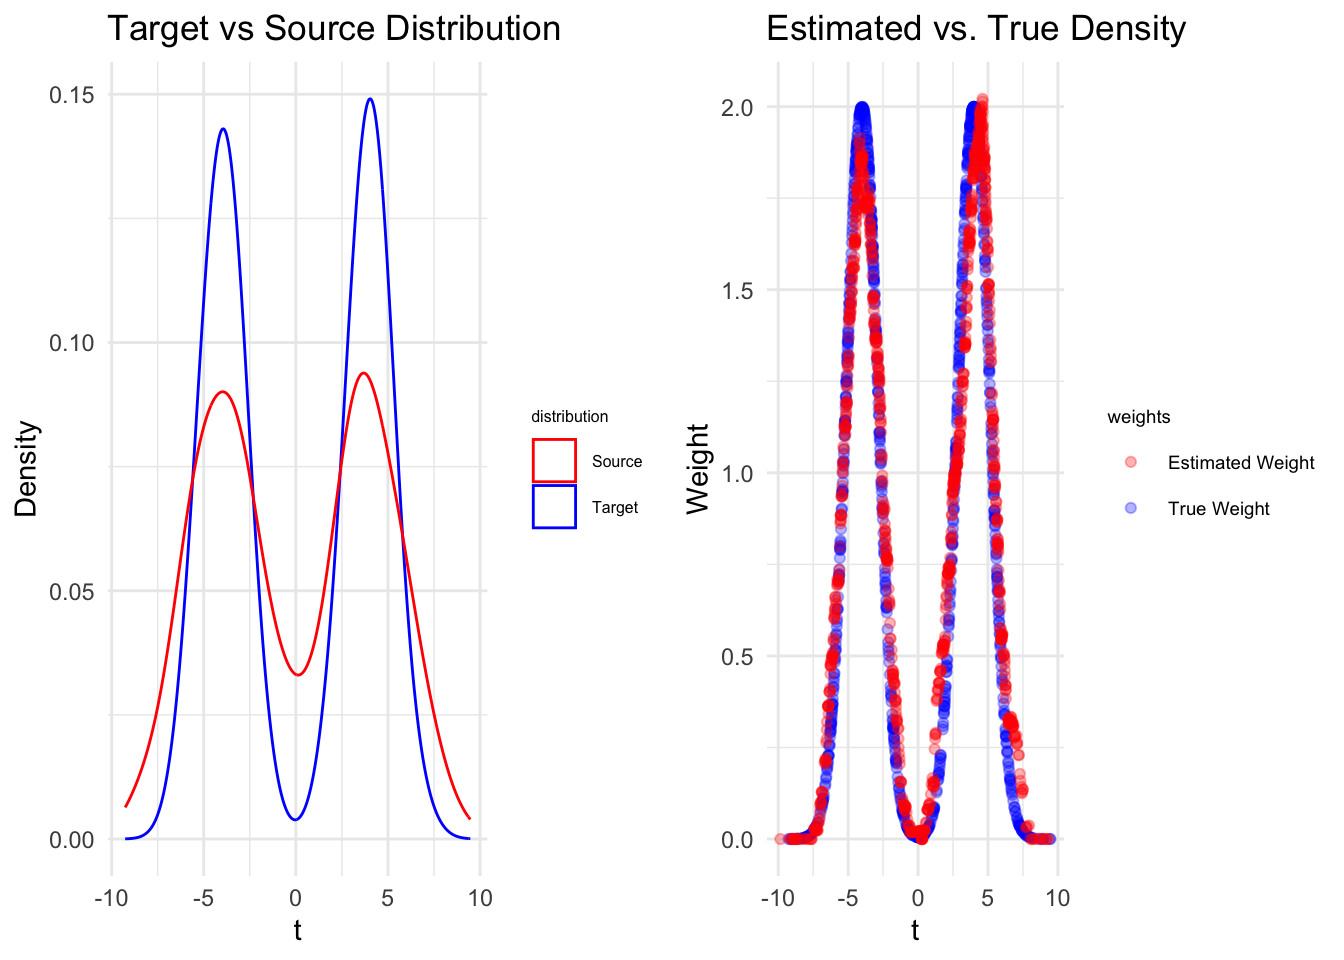
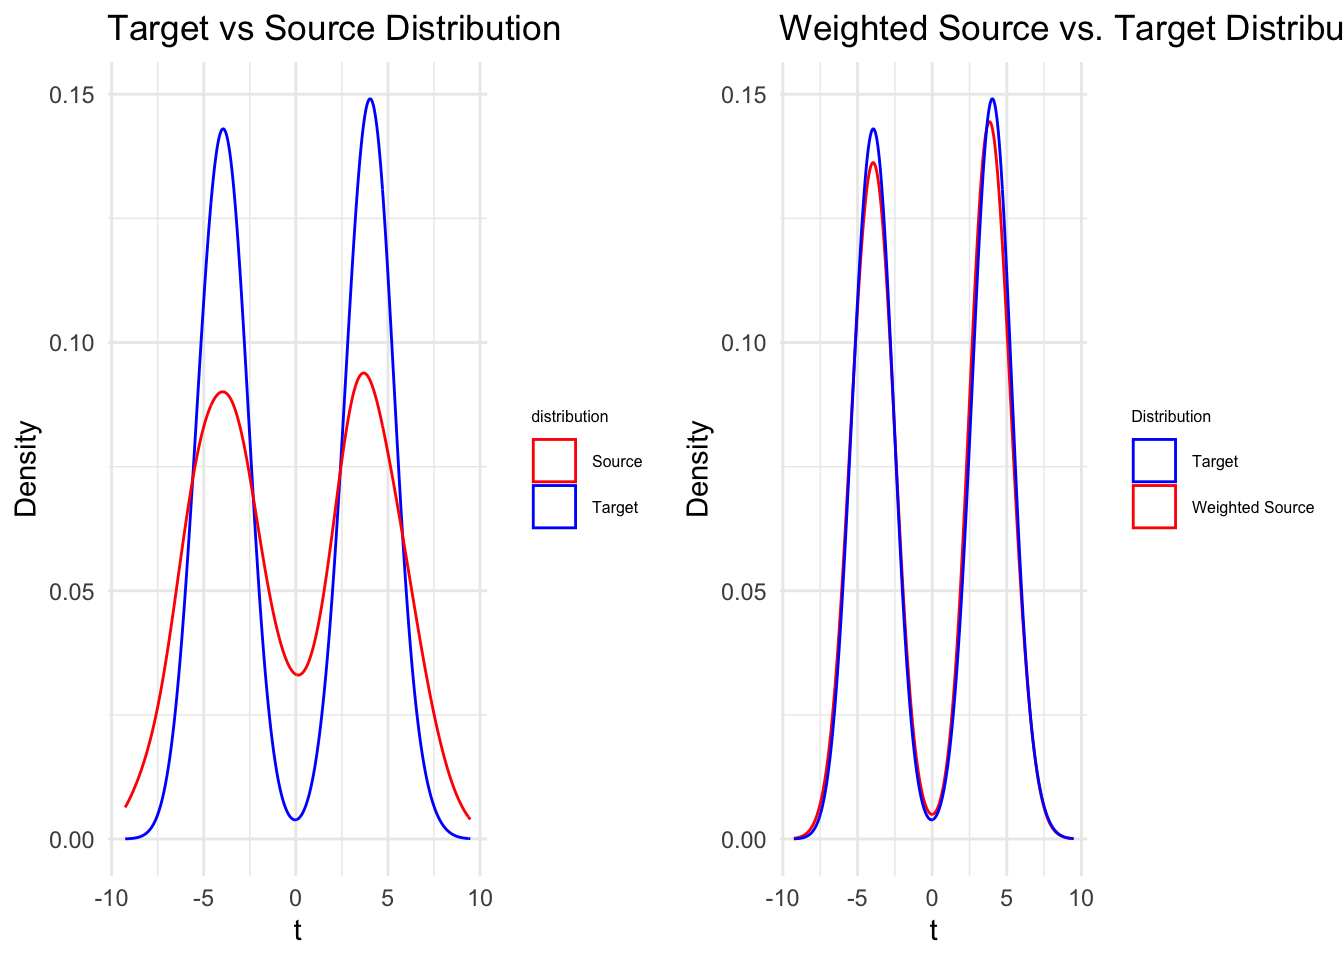
update density plot

diff --git a/histogram_based_method.html b/histogram_based_method.html
@@ -585,10 +585,19 @@ estimations_df &lt;- data.frame(
   t          = test_estimations[, 2]
 )</code></pre>
 <pre class="r"><code># Visualize estimation result
+
+# source dataframe
 df_t_w_source &lt;- data.frame(
   t = source_t,
-  w = w_fun(source_t)
+  w = w_fun(source_t),
+  f = f_source(source_t)
 )
+
+# target dataframe
+target_f &lt;- data.frame(
+  t = target_t,
+  f = f_target(target_t)
+) 
 
 source_target &lt;- ggplot() +
   geom_density(data = df_target, aes(x = V1, color = &quot;Target&quot;)) +
@@ -606,32 +615,51 @@ source_target &lt;- ggplot() +
   )
 
 estimation_true &lt;- ggplot() +
-  geom_point(
-    data = df_t_w_source,
-    aes(x = t, y = w, color = &quot;True Weight&quot;),
-    alpha = 0.3
-  ) +
-  # Estimated weight (red)
-  geom_point(
-    data = estimations_df,
-    aes(x = t, y = estimation, color = &quot;Estimated Weight&quot;),
-    alpha = 0.3
-  ) +
+  geom_density(data = df_t_w_source, aes(x = t, weight = w, color = &quot;Weighted Source&quot;)) +
+  geom_density(data = target_f, aes(x = t, color = &quot;Target&quot;)) +
   scale_color_manual(
-    name   = &quot;weights&quot;,  # this is the legend title
-    values = c(&quot;True Weight&quot; = &quot;blue&quot;,
-               &quot;Estimated Weight&quot; = &quot;red&quot;)
+    name = &quot;Distribution&quot;,
+    values = c(&quot;Weighted Source&quot; = &quot;red&quot;, &quot;Target&quot; = &quot;blue&quot;)
   ) +
   labs(
     x = &quot;t&quot;,
-    y = &quot;Weight&quot;,
-    title = &quot;Estimated vs. True Density&quot;
+    y = &quot;Density&quot;,
+    title = &quot;Weighted Source vs. Target Distribution&quot;
   ) +
   theme_minimal() +
   theme(
-    legend.title = element_text(size = 7),  # Smaller legend title
-    legend.text  = element_text(size = 7)    # Smaller legend text
+    legend.title = element_text(size = 6),  # Smaller legend title
+    legend.text  = element_text(size = 6)    # Smaller legend text
   )
+
+
+# estimation_true &lt;- ggplot() +
+#   geom_point(
+#     data = df_t_w_source,
+#     aes(x = t, y = w, color = &quot;True Weight&quot;),
+#     alpha = 0.3
+#   ) +
+#   # Estimated weight (red)
+#   geom_point(
+#     data = estimations_df,
+#     aes(x = t, y = estimation, color = &quot;Estimated Weight&quot;),
+#     alpha = 0.3
+#   ) +
+#   scale_color_manual(
+#     name   = &quot;weights&quot;,  # this is the legend title
+#     values = c(&quot;True Weight&quot; = &quot;blue&quot;,
+#                &quot;Estimated Weight&quot; = &quot;red&quot;)
+#   ) +
+#   labs(
+#     x = &quot;t&quot;,
+#     y = &quot;Weight&quot;,
+#     title = &quot;Estimated vs. True Density&quot;
+#   ) +
+#   theme_minimal() +
+#   theme(
+#     legend.title = element_text(size = 7),  # Smaller legend title
+#     legend.text  = element_text(size = 7)    # Smaller legend text
+#   )
 
 grid.arrange(source_target, estimation_true, ncol = 2)</code></pre>
 <p><img src="histogram_based_method_files/figure-html/unnamed-chunk-2-1.png" width="672" /></p>
